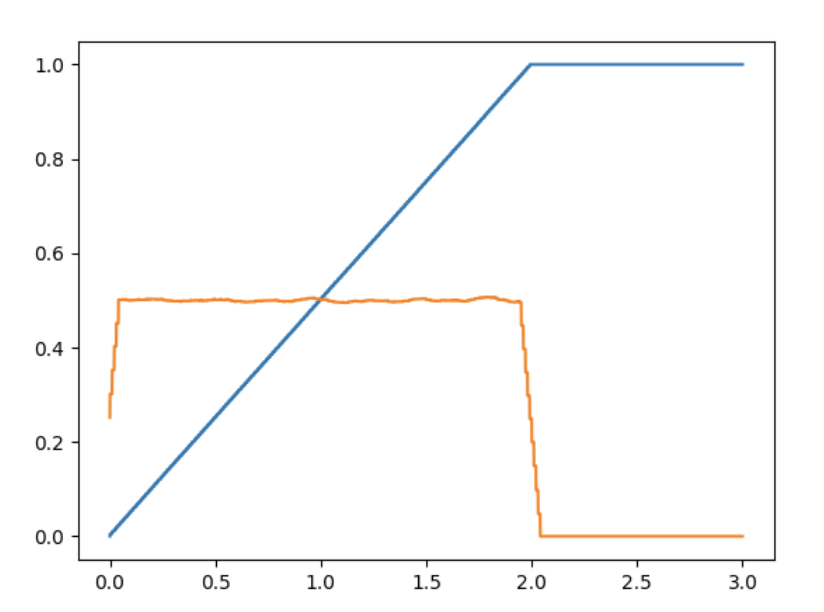
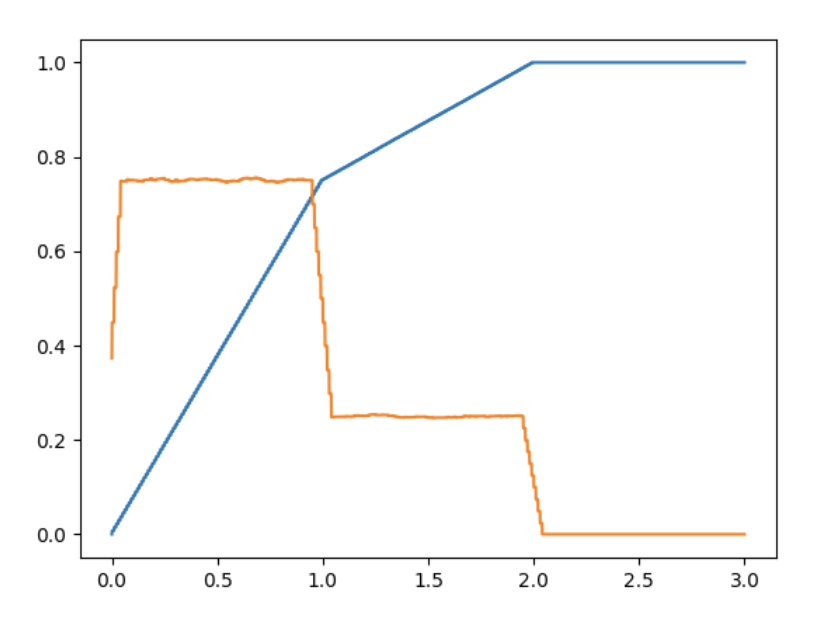
change example

diff --git a/random_variable.py b/random_variable.py
@@ -204,9 +204,8 @@ class RandomVariable:
 if __name__ == '__main__':
     def rv():
         if randrange(0, 2) == 0:  # Случайная переменная
-            return uniform(0, 4) / 2
+            return uniform(0, 2) / 2
         return uniform(0, 2)
-
 
     r = RandomVariable(0, 7, random_variable_func=rv)
     r.count_all(distribution_accuracy=0.1, distribution_iterations=10 ** 2,
